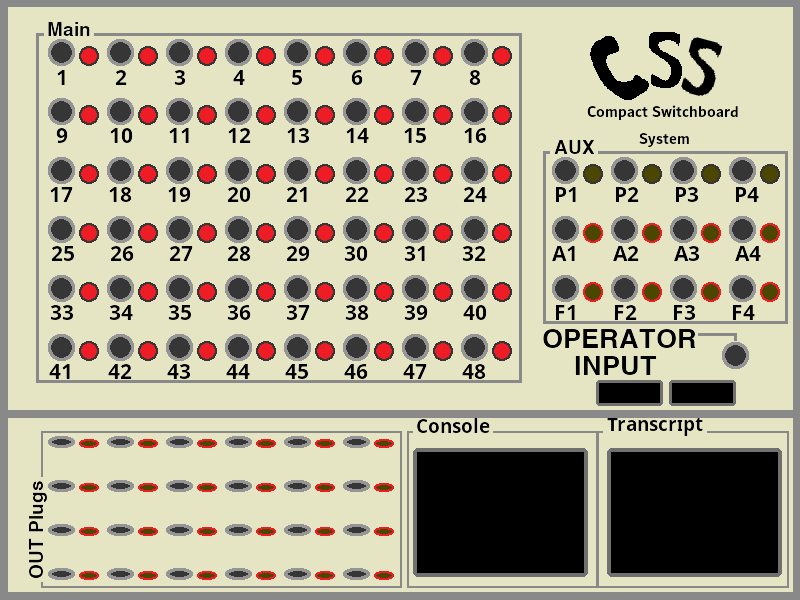
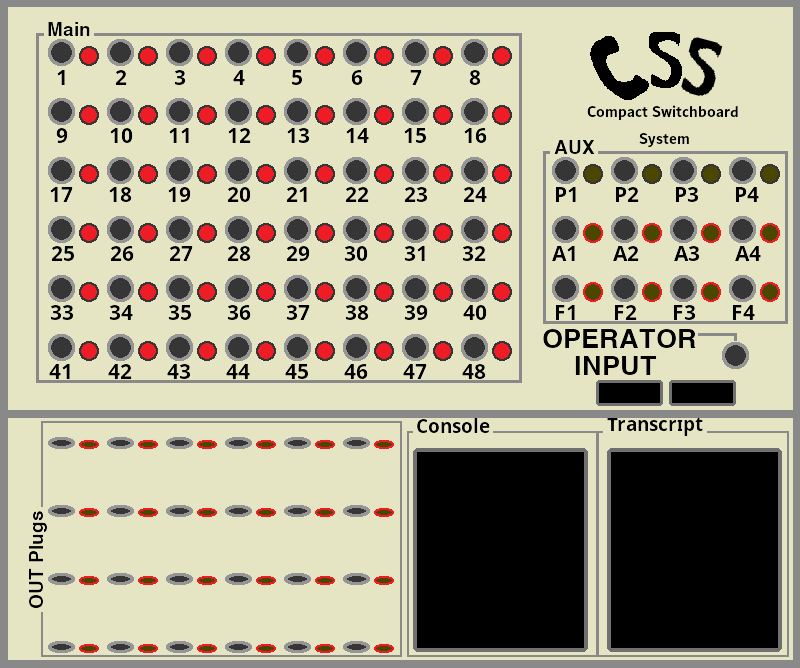
Added Plug Creation and Edited Background

diff --git a/core/src/com/mygdx/switchboard/SwitchBoard.java b/core/src/com/mygdx/switchboard/SwitchBoard.java
@@ -1,32 +1,44 @@
 package com.mygdx.switchboard;
 
 import com.badlogic.gdx.ApplicationAdapter;
+import com.badlogic.gdx.Gdx;
+import com.badlogic.gdx.graphics.OrthographicCamera;
 import com.badlogic.gdx.graphics.Texture;
 import com.badlogic.gdx.graphics.g2d.SpriteBatch;
+import com.badlogic.gdx.utils.Array;
 import com.badlogic.gdx.utils.ScreenUtils;
 
 public class SwitchBoard extends ApplicationAdapter {
-	SpriteBatch batch;
-	Texture img;
-	
+	private SpriteBatch batch;
+	private OrthographicCamera camera;
+	private Texture backgroundSprite;
+	private PlugManager plugController;
+
 	@Override
 	public void create () {
 		batch = new SpriteBatch();
-		img = new Texture("badlogic.jpg");
+		camera = new OrthographicCamera();
+		camera.setToOrtho(false, Gdx.graphics.getWidth(), Gdx.graphics.getHeight());
+		backgroundSprite = new Texture(Gdx.files.internal("backgrounds/bgr_main.png"));
+		plugController = new PlugManager();
+		plugController.createPlugs();
 	}
 
 	@Override
 	public void render () {
 		ScreenUtils.clear(1, 0, 0, 1);
 		batch.begin();
-		batch.draw(img, 0, 0);
+		batch.draw(backgroundSprite, 0, 0);
+		plugController.updatePlugs(batch);
 		batch.end();
+		camera.update();
 		Controls.keyboardControls();
 	}
-	
+
 	@Override
 	public void dispose () {
 		batch.dispose();
-		img.dispose();
+		backgroundSprite.dispose();
+		plugController.disposePlugs();
 	}
 }

diff --git a/core/src/com/mygdx/switchboard/PlugManager.java b/core/src/com/mygdx/switchboard/PlugManager.java
@@ -1,0 +1,47 @@
+package com.mygdx.switchboard;
+
+import com.badlogic.gdx.graphics.g2d.Batch;
+import com.badlogic.gdx.utils.Array;
+
+public class PlugManager {
+    private Array<Plug> plugs;
+    private int plugAmount, plugSpacingX, plugSpacingY, startX, startY, endX, endY;
+    PlugManager(){
+        this.plugs = new Array<Plug>();
+        this.plugAmount = 24;
+        this.plugSpacingX = 59;
+        this.plugSpacingY = 68;
+        this.startX = 54;
+        this.startY = 18;
+        this.endX = 349;
+        this.endY = 223;
+    }
+
+    public void createPlugs(){
+        int newStartX = startX;
+        int newStartY = startY;
+        for (int i = 0; i < plugAmount; i++){
+            plugs.add(new Plug(i, newStartX, newStartY));
+            newStartX += plugSpacingX;
+            if (newStartX > endX){
+                newStartX = startX;
+                newStartY += plugSpacingY;
+                if (newStartY > endY){
+                    break;
+                }
+            }
+        }
+    }
+
+    public void updatePlugs(Batch batch){
+        for (Plug plug: plugs){
+            plug.update(batch);
+        }
+    }
+
+    public void disposePlugs(){
+        for (Plug plug: plugs){
+            plug.dispose();
+        }
+    }
+}

diff --git a/core/src/com/mygdx/switchboard/Plug.java b/core/src/com/mygdx/switchboard/Plug.java
@@ -1,0 +1,35 @@
+package com.mygdx.switchboard;
+
+import com.badlogic.gdx.graphics.Texture;
+import com.badlogic.gdx.graphics.g2d.Batch;
+import com.badlogic.gdx.math.Rectangle;
+
+public class Plug {
+    private Rectangle plugRect;
+    private Texture plugNormal;
+    private Texture plugInserted;
+    private boolean draggable;
+    private int startX;
+    private int startY;
+    public Plug (int plugNumber, int startX, int startY){
+        this.plugRect = new Rectangle();
+        this.plugRect.x = startX;
+        this.plugRect.y = startY;
+        this.plugRect.width = 15;
+        this.plugRect.height = 68;
+        this.plugNormal = new Texture("sprites/plugs/spr_plug.png");
+        this.plugInserted = new Texture("sprites/plugs/spr_plug_inserted.png");
+        this.draggable = true;
+        this.startX = startX;
+        this.startY = startY;
+    }
+
+    public void update(Batch batch){
+        batch.draw(plugNormal, plugRect.x, plugRect.y);
+    }
+
+    public void dispose(){
+        plugNormal.dispose();
+        plugInserted.dispose();
+    }
+}

diff --git a/desktop/src/com/mygdx/switchboard/DesktopLauncher.java b/desktop/src/com/mygdx/switchboard/DesktopLauncher.java
@@ -9,7 +9,7 @@ public class DesktopLauncher {
 	public static void main (String[] arg) {
 		Lwjgl3ApplicationConfiguration config = new Lwjgl3ApplicationConfiguration();
 		config.setForegroundFPS(60);
-		config.setWindowedMode(1280, 720);
+		config.setWindowedMode(800, 668);
 		config.setTitle("Switch Board");
 		config.setResizable(false);
 		while (true) {
